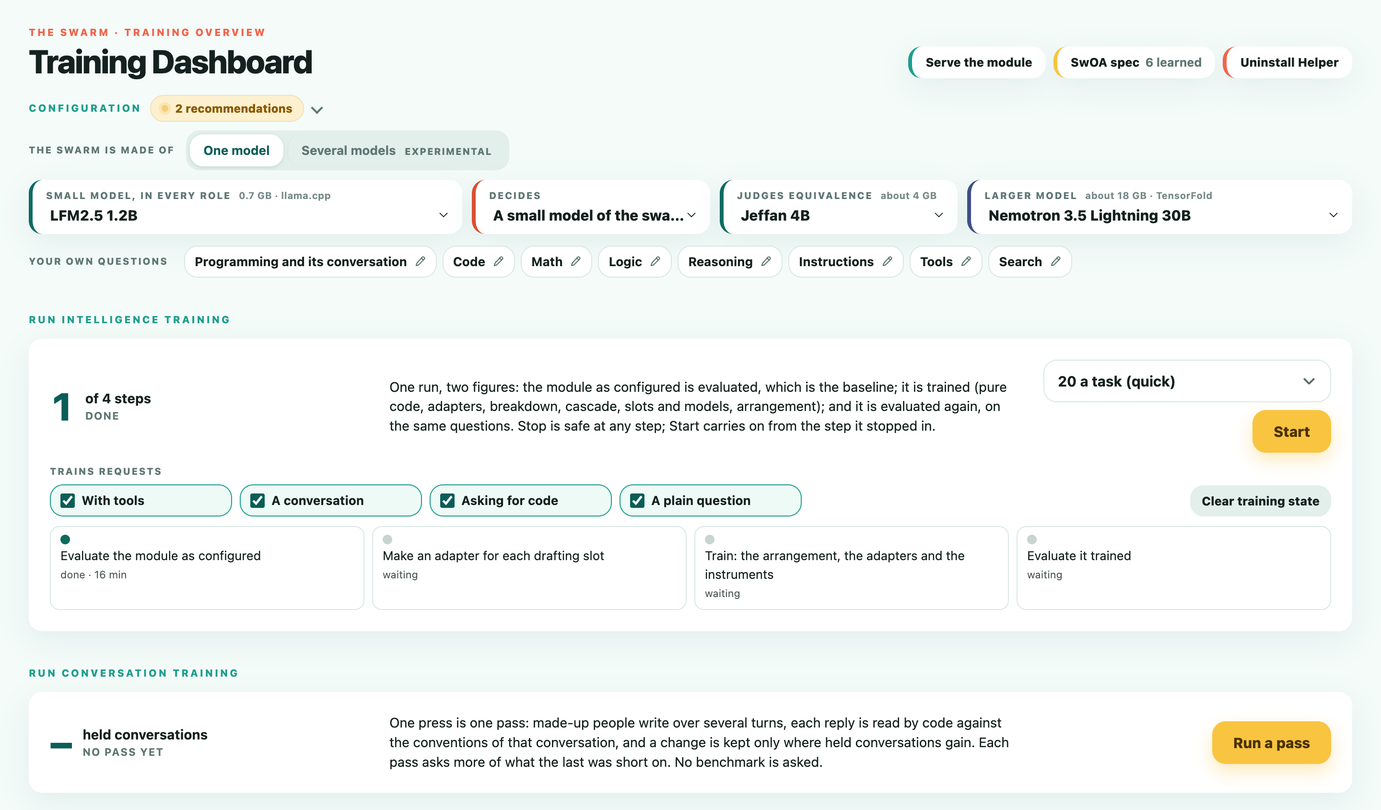
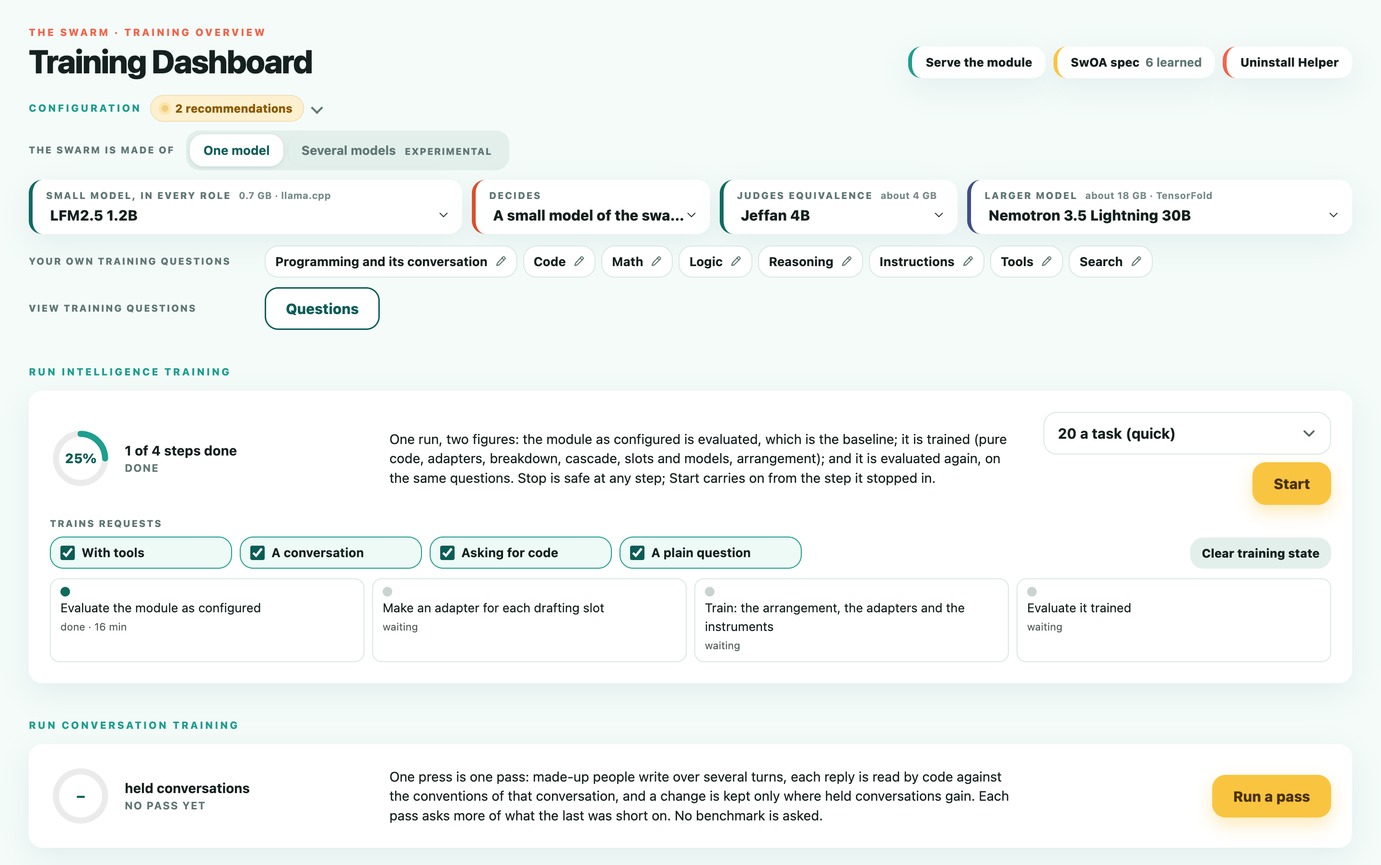
How far a run has come is a ring on its own card
The Swarm Viewer's head is taken out: the share of answers good, the pass's
bar and the Questions button. The card is the adapters and the slots.

Run Intelligence Training and Run Conversation Training each lead with a
ring, filled to a share with the share written in it. The intelligence run:
its four steps, each a quarter, the one running counted by how far it is
itself (an evaluation by the questions asked, training by the session's
share); a run that ended after one step is a quarter, not whole. The
conversation run: how far the pass has come while it runs, and where the
held conversations stand when none does, with a dash before any pass.

Questions, which opens the questions training asks, is a row of the
configuration (View training questions), under the row now named Your own
training questions. The README's picture and the Swarm Viewer's are taken
again.

diff --git a/ui/check.py b/ui/check.py
@@ -114,7 +114,7 @@ with tempfile.TemporaryDirectory() as tmp:
     strip = get(base + "/fragment/score")[1]
     check("the page says how far training has come, question by question: a percentage of answers good at the head of the Train card (no bar, legend, spec line or ideas line under it: taken out), and no parity verdict, held-question card or whole-measurement dialog any more",
           '<h2 id="arrangement">Swarm Viewer</h2>' in html and "<h2>Training progress</h2>" not in html and 'class="trainprog trainhead"' in strip and "answers good" in strip and "training complete" not in strip
-          and html.index('<h2 id="arrangement">Swarm Viewer</h2>') < html.index('<div id="score">') and 'class="mbar stack"' not in strip and 'class="memleg"' not in strip and "Ideas waiting to be tried" not in strip
+          and '<div id="score">' not in html and 'class="mbar stack"' not in strip and 'class="memleg"' not in strip and "Ideas waiting to be tried" not in strip
           and 'id="score-open"' not in html and 'id="big"' not in html and "/fragment/scorefull" not in html and get(base + "/fragment/scorefull")[0] == 404 and "Parity with the larger model" not in html, strip[:300])
     fp = data.footprint({"a": {"bytes": 2**30}, "b": {"bytes": 2**30}}, {"memGb": 5}, {"memGb": 18})
     mp = swarm_ui.memory_card(data.load(root))
@@ -243,7 +243,7 @@ with tempfile.TemporaryDirectory() as tmp:
     check("the arrangement is one section, drawn as faces: a roster of the models (each small model, the decider, the larger model, whose chip carries its live dot and opens its card), then the flow as stations in order, each slot a face of its model in the step it stands in, with its record as a ring, its own live dot and its whole name; the sandbox, which no model fills, is a marker between two stations; choosing a face opens that slot's card, with what it is told, below the row",
           # (the card is its head, the adapters and the faces: its title with chips, its line of what is happening and the question
           # track were taken out, each being said elsewhere on the page, console 2026-11-24)
-          'class="panel arr"' in arr and "<h3>The swarm as it stands</h3>" not in arr and 'class="achips"' not in arr and 'id="now"' not in arr and 'id="qtrack"' not in arr and 'class="qkey"' not in arr and 'id="score"' in arr and arr.count('class="mav ') == len(d["members"]) + 2
+          'class="panel arr"' in arr and "<h3>The swarm as it stands</h3>" not in arr and 'class="achips"' not in arr and 'id="now"' not in arr and 'id="qtrack"' not in arr and 'class="qkey"' not in arr and 'id="score"' not in arr and "answers good" not in arr and 'id="tq-open"' not in arr and arr.count('class="mav ') == len(d["members"]) + 2
           and set(slot_ids) <= {k for _, k in faces} and all(m == next(s["member"] for s in d["briefs"]["slots"] if s["id"] == k) for m, k in faces if k in slot_ids)
           and "decide" in [k for _, k in faces] and "target" not in [k for _, k in faces] and 'class="st mk"' not in arr
           and re.search(r'<button type="button" class="mav tgt" data-av="target"[^>]*>.*?data-live="target"', arr) and re.search(r'class="via" data-av="run"', arr)
@@ -304,7 +304,7 @@ with tempfile.TemporaryDirectory() as tmp:
     code_ok, drawn = send("/config", {"a": other["id"]})
     after = json.loads((root / "src" / "config.json").read_text())
     check("choosing a model writes it down and draws again everything that depends on it, in place: the slots in that place carry the new model's name, and results of another arrangement are not shown as this one's",
-          code_ok == 200 and after["a"] == other["id"] and other["name"] in drawn and "answers good" in drawn and "At parity with" not in drawn and "Not at parity with" not in drawn and after["b"] == d["members"]["b"]["id"], after)
+          code_ok == 200 and after["a"] == other["id"] and other["name"] in drawn and 'class="panel arr"' in drawn and "At parity with" not in drawn and "Not at parity with" not in drawn and after["b"] == d["members"]["b"]["id"], after)
     check("a model that is not one of those that can be chosen is refused, and so is a choice that does not come from this page",
           send("/config", {"a": "no-such-model"})[0] == 400 and send("/config", {"a": d["members"]["a"]["id"]}, {"content-type": "application/json"})[0] == 403 and json.loads((root / "src" / "config.json").read_text())["a"] == other["id"])
     send("/config", {"a": d["members"]["a"]["id"]})
@@ -363,7 +363,7 @@ with tempfile.TemporaryDirectory() as tmp:
     tg = eq_all["targets"]
     parts_nc = {
         "no boxes": "Equivalent on" not in html and "data-equiv" not in html and 'class="equiv"' not in html and 'class="tick"' not in html and 'class="tick on"' not in html and "data-qedit" in html and "{equivalence:" not in html and "/fragment/equiv" not in html,
-        "two rows": cfg_html.count('class="cfgrow"') == 2 and 'id="pre-use"' not in cfg_html and '<span class="cfgl">Adapters</span>' not in cfg_html and '<span class="cfgl">Turns with tools</span><div class="tools" id="tools">' in cfg_html and '<span class="cfgl">Your own questions</span><div class="ownq" id="ownq">' in cfg_html,
+        "two rows": cfg_html.count('class="cfgrow"') == 3 and '<span class="cfgl">View training questions</span><button class="btn top ghost" id="tq-open"' in cfg_html and 'id="pre-use"' not in cfg_html and '<span class="cfgl">Adapters</span>' not in cfg_html and '<span class="cfgl">Turns with tools</span><div class="tools" id="tools">' in cfg_html and '<span class="cfgl">Your own training questions</span><div class="ownq" id="ownq">' in cfg_html,
         # (a swarm of one model, its turns decided by the swarm, is not asked who takes turns with tools; set to one model alone,
         # or made of several, the row is there. And One model says nothing under the choice.)
         "one model": swarm_ui.tools_row({"members": {"a": {"id": "x", "name": "X"}, "b": {"id": "x", "name": "X"}}, "tools": "swarm", "mix": False}) == ""
@@ -957,7 +957,7 @@ with tempfile.TemporaryDirectory() as tmp:
         rd = __import__("subprocess").run([node_, "-e", "import(process.argv[1]).then(m=>{const s=m.readSpec(process.argv[2]);console.log(s.swoa.recipeSha256===m.recipeSha256(s.recipe)&&s.swoa.baseModuleSha256===m.recipeSha256(m.baseModuleOf(s.recipe))?'same':'differs')}).catch(e=>console.log('refused: '+e.message))",
                                             (Path(swarm_ui.__file__).resolve().parent.parent / "src" / "spec.mjs").as_uri(), str(sp_file)], capture_output=True, text=True)
         check("the module reads the SwOA spec the page writes, and computes its recipe and base module hashes the same way", rd.stdout.strip() == "same", rd.stdout + rd.stderr[:300])
-    check("the ideas waiting to be tried are no longer on the Train card's head (taken out, console instruction 2026-11-17)", "Ideas waiting to be tried:" not in html.split('<div id="score">')[1].split('</div></div>')[0])
+    check("the ideas waiting to be tried are no longer on the Train card's head (taken out, console instruction 2026-11-17)", "Ideas waiting to be tried:" not in html)
     node = swarm_ui.node_for_training()
     if node:
         parsed = __import__("subprocess").run([node, "--check", "-"], input="async function page(){\n" + swarm_ui.JS + "\n}", capture_output=True, text=True)
@@ -980,7 +980,7 @@ with tempfile.TemporaryDirectory() as tmp:
     srv.shutdown()
     # ---- the Train button, with a stand-in for the session (it writes its steps and waits): no model is started
     srv, base = serve(empty)
-    check("on a folder with no trainers the button is there but cannot be pressed, and says why", 'id="run-go" type="button" disabled' in get(base + "/page")[1] and "no trainers" in get(base + "/page")[1])
+    check("on a folder with no trainers the session's button cannot be pressed, and says why (it is on the session's own strip: the Swarm Viewer no longer carries it)", 'id="run-go" type="button" disabled' in get(base + "/fragment/score")[1] and "no trainers" in get(base + "/fragment/score")[1])
     srv.shutdown()
     fake = Path(tmp) / "repo"
     (fake / "training").mkdir(parents=True)
@@ -1101,7 +1101,7 @@ with tempfile.TemporaryDirectory() as tmp:
     # (a configuration is evaluated before it is trained: this one has been, on every body of work that has a standard task)
     _fd = data.load(str(fake))
     first_said = swarm_ui.needs_eval(_fd)
-    blocked_page = get(base + "/page")[1]
+    blocked_page = get(base + "/fragment/score")[1]
     post("/run/start")
     blocked_ran = (fake / ".work" / "train" / "ui-run.json").exists()
     (fake / ".work" / "eval").mkdir(parents=True, exist_ok=True)
@@ -1184,7 +1184,7 @@ with tempfile.TemporaryDirectory() as tmp:
           and 'id="run-go" type="button" title=' in _part_ctl and "Tools and Search have no figure from before" in _part_ctl and swarm_ui.eval_gaps(_fd) == "" and swarm_ui.needs_eval(_fd) == "", [_part_need, _part_gap, _part_ctl[:200]])
     page0 = get(base + "/page")[1]
     check("where training can be started the Train card has a Train button that can be pressed, no count of passes to choose, and says it goes on until it is stopped",
-          'id="run-go" type="button" title="Train question by question, pass after pass, until Stop training is pressed">Train</button>' in page0 and 'id="run-stop"' not in page0 and 'id="run-passes"' not in page0 and 'class="facts"' not in page0
+          'id="run-go" type="button" title="Train question by question, pass after pass, until Stop training is pressed">Train</button>' in get(base + "/fragment/score")[1] and 'id="run-go"' not in page0 and 'id="run-stop"' not in page0 and 'id="run-passes"' not in page0 and 'class="facts"' not in page0
           and swarm_ui.step_label("10-questions") == "Train, question by question" and swarm_ui.step_label("07-plan") == "Plan what to try" and swarm_ui.step_label("99-new") == "new")
     # THE SWARM AGAINST EACH QUESTION, on the swarm's own card: a pip for each finished question, the counts, and where a pass stopped
     trk_rec = {"pass": 2, "of": 6, "questions": 3, "list": [{"id": "q1", "kind": "math", "state": "at parity", "attempts": [{}]},
@@ -1813,7 +1813,7 @@ swarm_ui.CARD_STARTS = True
 _full = swarm_ui.main_body(_d)
 check("only the Run card starts and stops: the Evaluate and Train cards are drawn without their own Start buttons, the chooser of a size and the button that asked again what fell short, and with them where the page is started to draw them; what else the cards hold is as it was",
       all('id="%s"' % i not in _bare for i in ("ev-go", "ev-size", "ev-narrow", "pre-go", "run-go", "ev-stop", "pre-stop", "run-stop")) and 'id="whole-go"' in _bare
-      and all('id="%s"' % i in _full for i in ("ev-go", "ev-size", "run-go")) and "<h2>Evaluate the swarm</h2>" in _bare and "<h2>Pretrain</h2>" not in _bare and "<h2>Pretrain</h2>" not in _full, [len(_bare), len(_full)])
+      and all('id="%s"' % i in _full for i in ("ev-go", "ev-size")) and 'id="run-go"' not in _full and "<h2>Evaluate the swarm</h2>" in _bare and "<h2>Pretrain</h2>" not in _bare and "<h2>Pretrain</h2>" not in _full, [len(_bare), len(_full)])
 import tempfile as _tf9
 _wr = Path(_tf9.mkdtemp())
 (_wr / ".work" / "run" / "k" / "pass-1").mkdir(parents=True)
@@ -2306,7 +2306,7 @@ else:
 _cvsrc = Path(swarm_ui.__file__).read_text()
 check("the conversation run is a card of its own under Run, apart from the intelligence run: one press is one pass, and its figures are its own (the held conversations before a pass and after it, the passes side by side, what each kept and what it left for the next); before any pass it says so and offers one; it cannot be started while something else has the models, saying what; no benchmark is asked; and a pass is what the class stage does for the class that is a conversation, on the made-up people's kinds, with a record, gaps and history of its own",
       "no pass yet" in _cv0 and ">Run a pass<" in _cv0 and "No benchmark is asked" in _cv0 and 'id="conversebox"' in _cv0
-      and "after pass 2" in _cv1 and '<b class="pct">85%</b>' in _cv1 and ">Run the next pass<" in _cv1
+      and "after pass 2" in _cv1 and '<b>85%</b>' in _cv1 and 'aria-valuenow="85"' in _cv1 and 'class="ring"' in _cv1 and "<b>–</b>" in _cv0 and "aria-valuenow" not in _cv0 and ">Run the next pass<" in _cv1
       and "held 77% &rarr; 85% · kept: manners: a closing that only offers more help is taken off · left for the next: chat-thanks +2" in _cv1
       and "held 85% &rarr; 85% · nothing kept" in _cv1
       and "disabled" in _cv2 and "The module being served is running: a pass waits for it." in _cv2
@@ -2424,7 +2424,7 @@ check("the Run card has the head every card has (the figure and what it is, what
       "and where it waits for something else it says so in a line of its own; a whole run started from a shell is found by its process (the shell whose script is training/run.sh, not a shell that only launched it), "
       "with the size and the training it was started with, so the card shows Stop for it; each evaluation dialog has ONE header, which names the view, then the three evaluations side by side, then the last evaluation "
       "in detail under a heading that says which it is, and with no comparison to show it is the view as it was; and a percentage is said one way (55, not 55.0 beside 60)",
-      'class="panel prep wholep"' in _wb and '<span class="memnum"><b class="pct">' in _wb and "of 4 steps<small>" in _wb and 'id="whole-go"' in _wb
+      'class="panel prep wholep"' in _wb and '<span class="memnum" data-ring="1"><span class="ring"' in _wb and "of 4 steps done<small>" in _wb and 'id="whole-go"' in _wb
       and ".prep>.proghead" in swarm_ui.CSS
       and _found == {"pid": 4242, "limit": 50, "train": "off", "adopted": True, "running": True}
       and swarm_ui._run_in(" 501 /bin/bash -c bash training/run.sh --limit 20\n") is None and swarm_ui._run_in("") is None
@@ -2685,6 +2685,35 @@ check("the plan being carried out and the picture of the system fold, and start 
       and re.search(r'<details class="fold secfold" data-keep="sec-system"><summary><h2 id="system">Visualizing the System</h2></summary><div id="viz">', _arrf)
       and 'data-keep="sec-plan" open' not in _arrf and 'data-keep="sec-system" open' not in _arrf and "details.secfold" in swarm_ui.CSS and "details[data-keep]" in swarm_ui.JS,
       _arrf[-300:])
+
+# HOW FAR A RUN HAS COME, AS A RING ON ITS OWN CARD (console 2026-11-24)
+_rg0, _rg40, _rgn = swarm_ui.ring(0), swarm_ui.ring(40.4, True, "How far"), swarm_ui.ring(None)
+_ws = [{"id": k, "name": n, "state": "waiting"} for k, n in swarm_ui.WHOLE_STEPS]
+_st = lambda *states: [dict(x, state=s_) for x, s_ in zip(_ws, states)]  # noqa: E731
+_pp_was = swarm_ui.pass_progress
+swarm_ui.pass_progress = lambda d: {"pct": 50.0}
+_sh_none = swarm_ui.whole_share(_cvd, _st("waiting", "waiting", "waiting", "waiting"), False)
+_sh_one = swarm_ui.whole_share(_cvd, _st("done", "waiting", "waiting", "waiting"), False)
+_sh_train = swarm_ui.whole_share(_cvd, _st("done", "not taken", "running", "waiting"), True)
+_sh_stopped = swarm_ui.whole_share(_cvd, _st("done", "done", "running", "waiting"), False)
+swarm_ui.pass_progress = _pp_was
+_rjs, _rre, _rca, _rsr, _rss = swarm_ui._job_state, swarm_ui._run_elsewhere_now, swarm_ui._classes_alive, swarm_ui.stage_record, swarm_ui.stage_step
+swarm_ui._run_elsewhere_now, swarm_ui._classes_alive = (lambda: None), (lambda: False)
+swarm_ui._job_state = lambda name: {"running": True, "pid": 1, "at": "x"} if name == "converse" else None
+swarm_ui.stage_record = lambda d: {"rounds": 2, "classes": {"talk": {"asItStands": {"n": 4, "counted": 1}, "rounds": [{"of": 10, "candidates": [{}] * 5}]}}}
+swarm_ui.stage_step = lambda: 'Class 1 of 1, a conversation: trying "x" · question 1 of 4'
+_cv_run = swarm_ui.converse_block(_cvd)
+swarm_ui._job_state, swarm_ui._run_elsewhere_now, swarm_ui._classes_alive, swarm_ui.stage_record, swarm_ui.stage_step = _rjs, _rre, _rca, _rsr, _rss
+_now_pct = int((re.search(r'aria-valuenow="(\d+)"', _cv_run) or [0, -1])[1])
+check("how far a run has come is a ring on the run's own card, filled to a share with the share written in it: the intelligence run by its four steps, each a quarter, the one running counted by how far it is itself (an evaluation by its questions, training by the session's share), and a step that was stopped not counted as running; the conversation run by how far the pass has come while it runs, and by where the held conversations stand when it does not, with a dash before any pass; "
+      "the Swarm Viewer no longer has a head of its own (the share of answers good, the pass's bar, the Questions button): the questions training asks are opened from the configuration, under Your own training questions",
+      'role="progressbar"' in _rg0 and 'aria-valuenow="0"' in _rg0 and "<b>0%</b>" in _rg0 and 'stroke-dasharray="0.00 ' in _rg0
+      and 'class="ring on"' in _rg40 and 'aria-valuenow="40"' in _rg40 and "<b>40%</b>" in _rg40 and "aria-valuenow" not in _rgn and "<b>–</b>" in _rgn
+      and _sh_none == 0 and _sh_one == 25 and abs(_sh_train - 62.5) < 0.01 and _sh_stopped == 50
+      and 'class="ring on"' in _cv_run and 0 < _now_pct < 100 and "of pass" in _cv_run and 'id="converse-stop"' in _cv_run
+      and 'id="score"' not in swarm_ui.arrangement(_cvd) and 'id="tq-open"' not in swarm_ui.arrangement(_cvd) and 'id="tq-open"' in swarm_ui.config_section(_cvd)
+      and "View training questions" in swarm_ui.config_section(_cvd) and "Your own training questions" in swarm_ui.config_section(_cvd) and ".ring .rv" in swarm_ui.CSS,
+      [_sh_none, _sh_one, _sh_train, _sh_stopped, _now_pct, _rg40[:160]])
 
 print("\n" + ("%d FAILED, " % len(failed) if failed else "all ") + "%d passed." % passed)
 sys.exit(1 if failed else 0)

diff --git a/ui/swarm_ui.py b/ui/swarm_ui.py
@@ -134,7 +134,8 @@ details.cfg[open]>summary{margin-bottom:0}details.cfg .picks{margin-top:10px}
 .ownb{display:inline-flex;align-items:center;gap:7px;border:1px solid var(--line);border-radius:var(--r);background:var(--panel);font:inherit;font-size:13px;font-weight:700;color:var(--fog);padding:6px 10px;cursor:pointer}
 .ownb em{font-style:normal;color:var(--teal)}.ownb svg{width:13px;height:13px;fill:none;stroke:var(--mist);stroke-width:1.7;stroke-linejoin:round;stroke-linecap:round}
 .ownb:hover,.ownb:focus-visible{border-color:var(--teal2);color:var(--teal)}.ownb:hover svg,.ownb:focus-visible svg{stroke:var(--teal)}
-@media (max-width:560px){.cfgl{flex-basis:100%}}
+.cfgrows .cfgl{flex-basis:232px}
+@media (max-width:560px){.cfgl,.cfgrows .cfgl{flex-basis:100%}}
 dialog#qedit{border:0;border-radius:var(--r);padding:26px;max-width:min(760px,94vw);width:100%;max-height:90vh;box-shadow:0 30px 80px rgba(11,93,87,.3);color:var(--fog);background:var(--panel)}
 dialog#qedit::backdrop{background:rgba(11,40,38,.45)}dialog#qedit h4{margin:22px 0 6px}
 .qlist{list-style:none;margin:0;padding:0;display:grid;gap:8px}.qrow{display:flex;gap:8px;align-items:flex-start;min-width:0}
@@ -527,6 +528,12 @@ padding:11px 14px;font-size:13px;line-height:1.45;box-shadow:0 10px 30px rgba(0,
 #busybar i{display:block;height:100%;width:30%;background:var(--teal2);animation:slide 1s ease-in-out infinite}
 .btn.waiting,.specbtn.waiting{position:relative;opacity:.75;cursor:progress}
 @media (prefers-reduced-motion:reduce){.loadbar i,.skel,#busybar i{animation-duration:3s}}
+/* (the Swarm Viewer has no head now: what comes first in it has no rule above it) */
+.panel.arr>:first-child{border-top:0!important;margin-top:0!important;padding-top:0!important}
+.memnum[data-ring]{display:flex;align-items:center;gap:14px;text-align:left}.ring{position:relative;display:inline-block;width:64px;height:64px;flex:none}
+.ring svg{width:64px;height:64px;display:block}.ring circle{fill:none;stroke-width:6}.ring .rt{stroke:rgba(0,0,0,.08)}.ring .rv{stroke:var(--teal2);stroke-linecap:round;transition:stroke-dasharray .6s ease}
+.ring b{position:absolute;inset:0;display:flex;align-items:center;justify-content:center;font-size:15px;font-weight:800;color:var(--teal);font-variant-numeric:tabular-nums;line-height:1}
+.memnum[data-ring] .ring b{font-size:14px;display:flex;letter-spacing:-.02em}.ring.on .rv{stroke:var(--sun)}
 #snack.on{opacity:1;transform:translate(-50%,0);pointer-events:auto}#snack button{background:none;border:0;color:#ffd2cd;font-weight:700;cursor:pointer;font-size:13px;padding:0;flex:none}
 .panel.run{display:grid;gap:14px;padding:18px}.panel.run>*{margin:0}
 .run .meta{display:flex;flex-wrap:wrap;gap:4px 14px;font-size:12.5px;color:var(--mist);font-weight:600}.run .meta b{color:var(--fog);font-weight:800}
@@ -2703,7 +2710,9 @@ def arrangement(d):
     # question track with its key of eleven marks. Each is said elsewhere on the page (the configuration, the SwOA spec's
     # count of kept changes, Training now, the plan being carried out), so they were taken out (console 2026-11-24).
     # (the training share, the line beside it, Train and Clear training state head the card: #score, drawn again in place)
-    one = ('<div class="panel arr"><div id="score">%s</div>%s%s</div>' % (progress_strip(d), adapters_line(d), faces_block(d)))
+    # (and its head, the share of answers good with the pass's bar and the Questions button, was taken out too: how far a run
+    # has come is said on the run's own card, as a ring, and the questions are opened from the configuration)
+    one = '<div class="panel arr">%s%s</div>' % (adapters_line(d), faces_block(d))
     # THE PLAN AND THE PICTURE FOLD, AND START FOLDED (console 2026-11-24): each is long and is looked at on purpose, so the page
     # opens on what a person acts on. Open or shut is kept on the device (data-keep), and what is inside is still drawn again
     # in place while it is shut, so opening one shows it as it stands.
@@ -3984,8 +3993,10 @@ def config_section(d):
     return ('<details class="cfg fold" data-keep="cfg" open><summary><span class="cfgh">Configuration</span><span id="rec-slot">%s</span><span class="fmeta" id="cfg-meta">%s</span></summary>'
             '<div class="foldb">%s<div class="cfgrows">%s'
             # (no row for adapters: whether a slot carries one is training's to find, and is shown with the arrangement)
-            '<div class="cfgrow"><span class="cfgl">Your own questions</span>%s</div></div></div></details>'
-            % (badge, e(cfg_meta(d)), pills(d), tools_row(d), own_questions(d)))
+            '<div class="cfgrow"><span class="cfgl">Your own training questions</span>%s</div>'
+            # (the questions training asks, read from here: the button was at the head of the Swarm Viewer, console 2026-11-24)
+            '<div class="cfgrow"><span class="cfgl">View training questions</span>%s</div></div></div></details>'
+            % (badge, e(cfg_meta(d)), pills(d), tools_row(d), own_questions(d), TQ_BUTTON))
 
 
 def tools_row(d):
@@ -6128,11 +6139,54 @@ def whole_block(d):
     only = st.get("classes") or []
     waits += ((('<small class="evwhy" id="whole-only">Training requests %s only, as chosen.</small>' % e(_and([CLASS_NAMES.get(c, c) for c in only]).lower())) if only else "")
               if running else train_options(bool(held and held != "the run"), held))
-    return ('<div class="panel prep wholep" id="wholebox"%s><div class="proghead"><span class="memnum"><b class="pct">%d</b><span>of 4 steps<small>%s</small></span></span>'
+    n_done = sum(1 for x in steps if x["state"] in ("done", "not taken"))
+    at = next((i + 1 for i, x in enumerate(steps) if x["state"] == "running"), None) if running else None
+    # (by its steps alone: a run that ended after one step, as one asked not to train does, is a quarter of the way and not whole)
+    share = whole_share(d, steps, running)
+    return ('<div class="panel prep wholep" id="wholebox"%s><div class="proghead"><span class="memnum" data-ring="1">%s<span>%s<small>%s</small></span></span>'
             '<span class="progline">One run, two figures: the module as configured is evaluated, which is the baseline; it is trained (pure code, adapters, breakdown, cascade, slots and models, arrangement); and it is evaluated again, '
             'on the same questions. Stop is safe at any step; Start carries on from the step it stopped in.</span><span class="evctl">%s</span></div>%s<ol class="wsl">%s</ol></div>'
-            % (' data-running="1"' if running else "", sum(1 for x in steps if x["state"] == "done"),
+            % (' data-running="1"' if running else "", ring(share, running, "How far the intelligence run has come"),
+               ("step %d of 4" % at) if at else ("%d of 4 steps done" % n_done),
                "running" if running else ("done" if done else ("waiting" if held and held != "the run" else "not started" if not any(x["state"] != "waiting" for x in steps) else "stopped")), ctl, waits, rows))
+
+
+def ring(pct, running=False, word=""):
+    """HOW FAR, AS A RING: a circle filled to a share, with the share written in it. It is what each run card leads with: how
+    far the run has come while it runs, and where it stands when it does not. pct: 0 to 100, or None where there is nothing
+    to say yet (an empty ring with a dash)."""
+    known = pct is not None
+    v = max(0.0, min(100.0, float(pct or 0)))
+    r, c = 24.0, 2 * 3.14159265 * 24.0
+    return ('<span class="ring%s" role="progressbar" aria-valuemin="0" aria-valuemax="100"%s aria-label="%s">'
+            '<svg viewBox="0 0 60 60" aria-hidden="true"><circle class="rt" cx="30" cy="30" r="24"></circle>'
+            '<circle class="rv" cx="30" cy="30" r="24" stroke-dasharray="%.2f %.2f" transform="rotate(-90 30 30)"%s></circle></svg><b>%s</b></span>'
+            % (" on" if running else "", (' aria-valuenow="%d"' % round(v)) if known else "", e(word or "How far"), c * v / 100.0, c, "" if v > 0 else ' visibility="hidden"', ("%d%%" % round(v)) if known else "–"))
+
+
+def whole_share(d, steps, running):
+    """How far the intelligence run has come, 0 to 100: each of its four steps is a quarter; one that is done (or was not
+    taken) is whole, and the one running counts by how far it is itself: an evaluation by the questions asked of those it
+    has to ask (.work/eval/live.json), training by the session's own share (pass_progress). A step whose share cannot be
+    read counts as begun and no more."""
+    total = 0.0
+    for x in steps:
+        if x["state"] in ("done", "not taken"):
+            total += 1
+        elif x["state"] == "running" and running:
+            part = 0.0
+            try:
+                if x["id"] in ("1-evaluate-as-configured", "4-evaluate-trained"):
+                    live = data._json(Path(d.get("root", ARGS.root)) / ".work" / "eval" / "live.json", {}) or {}
+                    sides = [t.get(k) or {} for t in live.get("tasks") or [] for k in ("swarm", "target")]
+                    of = sum(int(y.get("of") or 0) for y in sides)
+                    part = (sum(min(int(y.get("done") or 0), int(y.get("of") or 0)) for y in sides) / of) if of else 0.0
+                elif x["id"] == "3-train-classes":
+                    part = float((pass_progress(d) or {}).get("pct") or 0) / 100.0
+            except (TypeError, ValueError, KeyError):
+                part = 0.0
+            total += max(0.0, min(0.99, part))
+    return 100.0 * total / max(1, len(steps))
 
 
 def train_options(blocked, held):
@@ -6189,11 +6243,21 @@ def converse_block(d):
     waits = ('<div class="state warn"><i></i><span>%s is running: a pass waits for it.</span></div>' % e(held[0].upper() + held[1:])) if held and held != "a conversation pass" and not running else ""
     # (what the lineup needs is fetched first, and the card says how far that is; a pass that ended on an error says why)
     waits += (_making_ready(st) if running else failed_line("converse", "The conversation pass"))
-    return ('<div class="panel prep wholep" id="conversebox"%s><div class="proghead"><span class="memnum"><b class="pct">%s</b><span>held conversations<small>%s</small></span></span>'
+    # THE RING: while a pass runs, how far the pass has come (the class stage's own share, by the changes tried and the
+    # question in hand: classes_share); otherwise where the held conversations stand after the last pass
+    if running:
+        rec = stage_record(d)
+        figure = ring(100.0 * classes_share(rec, 1, stage_step()) if rec else 0.0, True, "How far the conversation pass has come")
+        what = "of pass %d" % (len(hist) + 1)
+    else:
+        la = (last or {}).get("heldAfter") or {}
+        figure = ring((100.0 * la["counted"] / la["n"]) if la.get("n") else None, False, "Held conversations the swarm answers well")
+        what = "held conversations"
+    return ('<div class="panel prep wholep" id="conversebox"%s><div class="proghead"><span class="memnum" data-ring="1">%s<span>%s<small>%s</small></span></span>'
             '<span class="progline">One press is one pass: made-up people write over several turns, each reply is read by code against the conventions of that conversation, '
             'and a change is kept only where held conversations gain. Each pass asks more of what the last was short on. No benchmark is asked.%s</span><span class="evctl">%s</span></div>%s%s</div>'
-            % (' data-running="1"' if running else "", pc((last or {}).get("heldAfter")) if last else "–",
-               ("pass %d running" % (len(hist) + 1)) if running else ("after pass %d" % (last.get("pass") or len(hist))) if last else "no pass yet", now, ctl, waits,
+            % (' data-running="1"' if running else "", figure, what,
+               "running" if running else ("after pass %d" % (last.get("pass") or len(hist))) if last else "no pass yet", now, ctl, waits,
                ('<ol class="wsl">%s</ol>' % rows) if rows else ""))
 
 

diff --git a/docs/dashboard.md b/docs/dashboard.md
@@ -17,10 +17,10 @@ is kept on the device.
 <p align="center"><em>Evaluate the swarm: the module&#39;s score as a share of the larger model&#39;s on the same questions, and the two evaluations Run sets side by side: as configured, which is the baseline, and trained. The three buttons open the same results as a line for every task, as a paper sets them out, and drawn.</em></p>
 
 <p align="center">
-  <img src="images/dashboard-arrangement.png" alt="The Swarm Viewer card: 0% answers good in pass 1, 33.0% of the pass complete, and Questions; Adapters: which slots carry one for requests asking for code, and the four that have been made with what each was taught on; the models (LFM2.5 1.2B in every role, no decision model, Nemotron 3.5 Lightning 30B as the target); and the plain flow as faces: draft, try, check, decide, write" width="860">
+  <img src="images/dashboard-arrangement.png" alt="The Swarm Viewer card: Adapters, which slots carry one for requests asking for code and the four that have been made with what each was taught on; the models (LFM2.5 1.2B in every role, no decision model, Nemotron 3.5 Lightning 30B as the target); and the plain flow as faces: draft, try, check, decide, write" width="860">
 </p>
 
-<p align="center"><em>The Swarm Viewer: how far the pass has come, the adapters there are and which slots carry one, and every slot as a face in the step it stands in. Choose a face to read what that slot is told.</em></p>
+<p align="center"><em>The Swarm Viewer: the adapters there are and which slots carry one, and every slot as a face in the step it stands in. Choose a face to read what that slot is told.</em></p>
 
 <p align="center">
   <img src="images/dashboard-plan.png" alt="The plan being carried out: Training now, nothing is training, and what the next conversation pass and the next intelligence run begin from" width="860">
@@ -51,6 +51,8 @@ is kept on the device.
 | SwOA spec, Uninstall Helper | Two buttons at the top. **SwOA spec** (with how many kept changes its arrangement carries now): everything needed to make this swarm again and offer it as a model ([from its spec](api.md#from-its-swoa-spec)): where its pass stands, its proof (a verdict for each capability, and each task's two scores with the gap between them), how far training took it on its own held questions, what it has learned, the card a model chooser would list, what it needs of a machine, what it can do as a model, how to make it, its models with their pinned files, its decider, the flow, and every slot with what it is told. To read, to copy as JSON, or to save as a file. **Uninstall Helper**: everything the Swarm has put in `.work`, with the room each takes and whether the configured swarm uses it, and a button to take out each; never anything outside `.work`, what training has learned, or anything while a session runs                                                                                                                                                                                                                                                                                                                                                                                                                                                                                                                                                                                                                                                                                                                                                                                                                                                                                                                                                                                                                                                                                                                                                                                                                                                                                                                                                                                                                                                                                                                                                                                                                                                                                                                                                                                                                                                                                                                                                                                                                                                                                                                                                                                                                                                                                                                                                                                                                                                                                                                                                                                                                     |
 | Which classes are trained  | On the Run Intelligence Training card, under its head: a box for each class a request can be (with tools, a conversation, asking for code, a plain question), every one ticked to begin with. Start sends the choice and the run's training step trains those classes only (`run.sh --classes`), saying which while it runs. **Clear training state** is at the end of that row. Both were on the Train card, now the Swarm Viewer |
 | The plan, and the picture | **The plan being carried out** and **Visualizing the System** are sections that fold, and start folded: press the heading to open one. Open or shut is kept on the device |
+| How far a run has come    | A ring at the head of each run card, filled to a share with the share written in it. Run Intelligence Training: its four steps, each a quarter, the one running counted by how far it is itself. Run Conversation Training: how far the pass has come while it runs; where the held conversations stand when it does not |
+| View training questions    | A row of the configuration, under **Your own training questions**: **Questions** opens the questions training asks. It was at the head of the Swarm Viewer, which has no head now |
 | Run Conversation Training   | Its own section, under Run Intelligence Training. One press is one pass over the class of input that is a conversation: made-up people write over several turns and each reply is read by code. Its figure is the share of held conversations right after the last pass; under it, the passes side by side (held before and after, what each kept, what it left for the next). It waits, saying for what, while something else has the models. No benchmark is asked. It first fetches what the lineup needs, saying which piece and how far; a pass that ends on an error keeps the error on the card and the page reads it out in a snackbar. |
 | The page itself            | It arrives at once as a shell (the title and a bar that moves) and reads the dashboard after. While anything asked for is on its way, a thin bar moves across the top and the button pressed is marked as waiting. `/page` is the whole page in one answer |
 | Serve the module            | A button beside the title, left of the SwOA spec. It starts the module as one chat model at an address on this machine (`node bin/swarm.mjs serve`); while its small models load it says so, and once it answers the address to connect to (`http://127.0.0.1:8090/v1`, one model, `the-swarm`) is shown beside it and the button stops it. Greyed out, saying why, while training, an evaluation or the making of adapters has the models; they wait while the module is served. |

diff --git a/README.md b/README.md
@@ -17,7 +17,7 @@
 </p>
 
 <p align="center">
-  <img src="docs/images/dashboard.png" alt="The top of the dashboard: Serve the module, SwOA spec and Uninstall Helper; the configuration, with one small model in every role (LFM2.5 1.2B), a small model of the swarm deciding, Jeffan 4B judging, and Nemotron 3.5 Lightning 30B as the larger model; your own questions; Run Intelligence Training, with the size of each evaluation, Start, which classes of request it trains, Clear training state and its four steps; and Run Conversation Training, with Run a pass" width="860">
+  <img src="docs/images/dashboard.png" alt="The top of the dashboard: Serve the module, SwOA spec and Uninstall Helper; the configuration, with one small model in every role (LFM2.5 1.2B), a small model of the swarm deciding, Jeffan 4B judging, and Nemotron 3.5 Lightning 30B as the larger model; your own training questions, and Questions to view the ones training asks; Run Intelligence Training, with a ring of how far it has come, the size of each evaluation, Start, which classes of request it trains, Clear training state and its four steps; and Run Conversation Training, with its ring and Run a pass" width="860">
 </p>
 
 <p align="center"><em>The dashboard: choose the models, serve the swarm, train it. <a href="docs/dashboard.md">Every part of it, pictured</a>.</em></p>

diff --git a/CHANGELOG.md b/CHANGELOG.md
@@ -6,6 +6,11 @@ What changed, for a person deciding whether to update. Newest first. Versions fo
 
 The first version.
 
+- **How far a run has come is a ring on its own card** (2026-11-24). The Swarm Viewer's head (the share of answers
+  good, the pass's bar, the Questions button) is taken out. Run Intelligence Training and Run Conversation Training
+  each lead with a ring filled to a share: the intelligence run by its four steps, the one running counted by how far
+  it is itself; the conversation run by how far the pass has come, and by the held conversations when none runs.
+  **Questions** is a row of the configuration, View training questions, under Your own training questions.
 - **The pictures are of the dashboard as it is** (2026-11-24): the README's and all of `docs/dashboard.md`'s were
   taken again after the Swarm Viewer, the folding sections and the classes on the intelligence run's card. The
   folding sections' caret sits beside the heading as the configuration's does, and at the far side on a phone.
